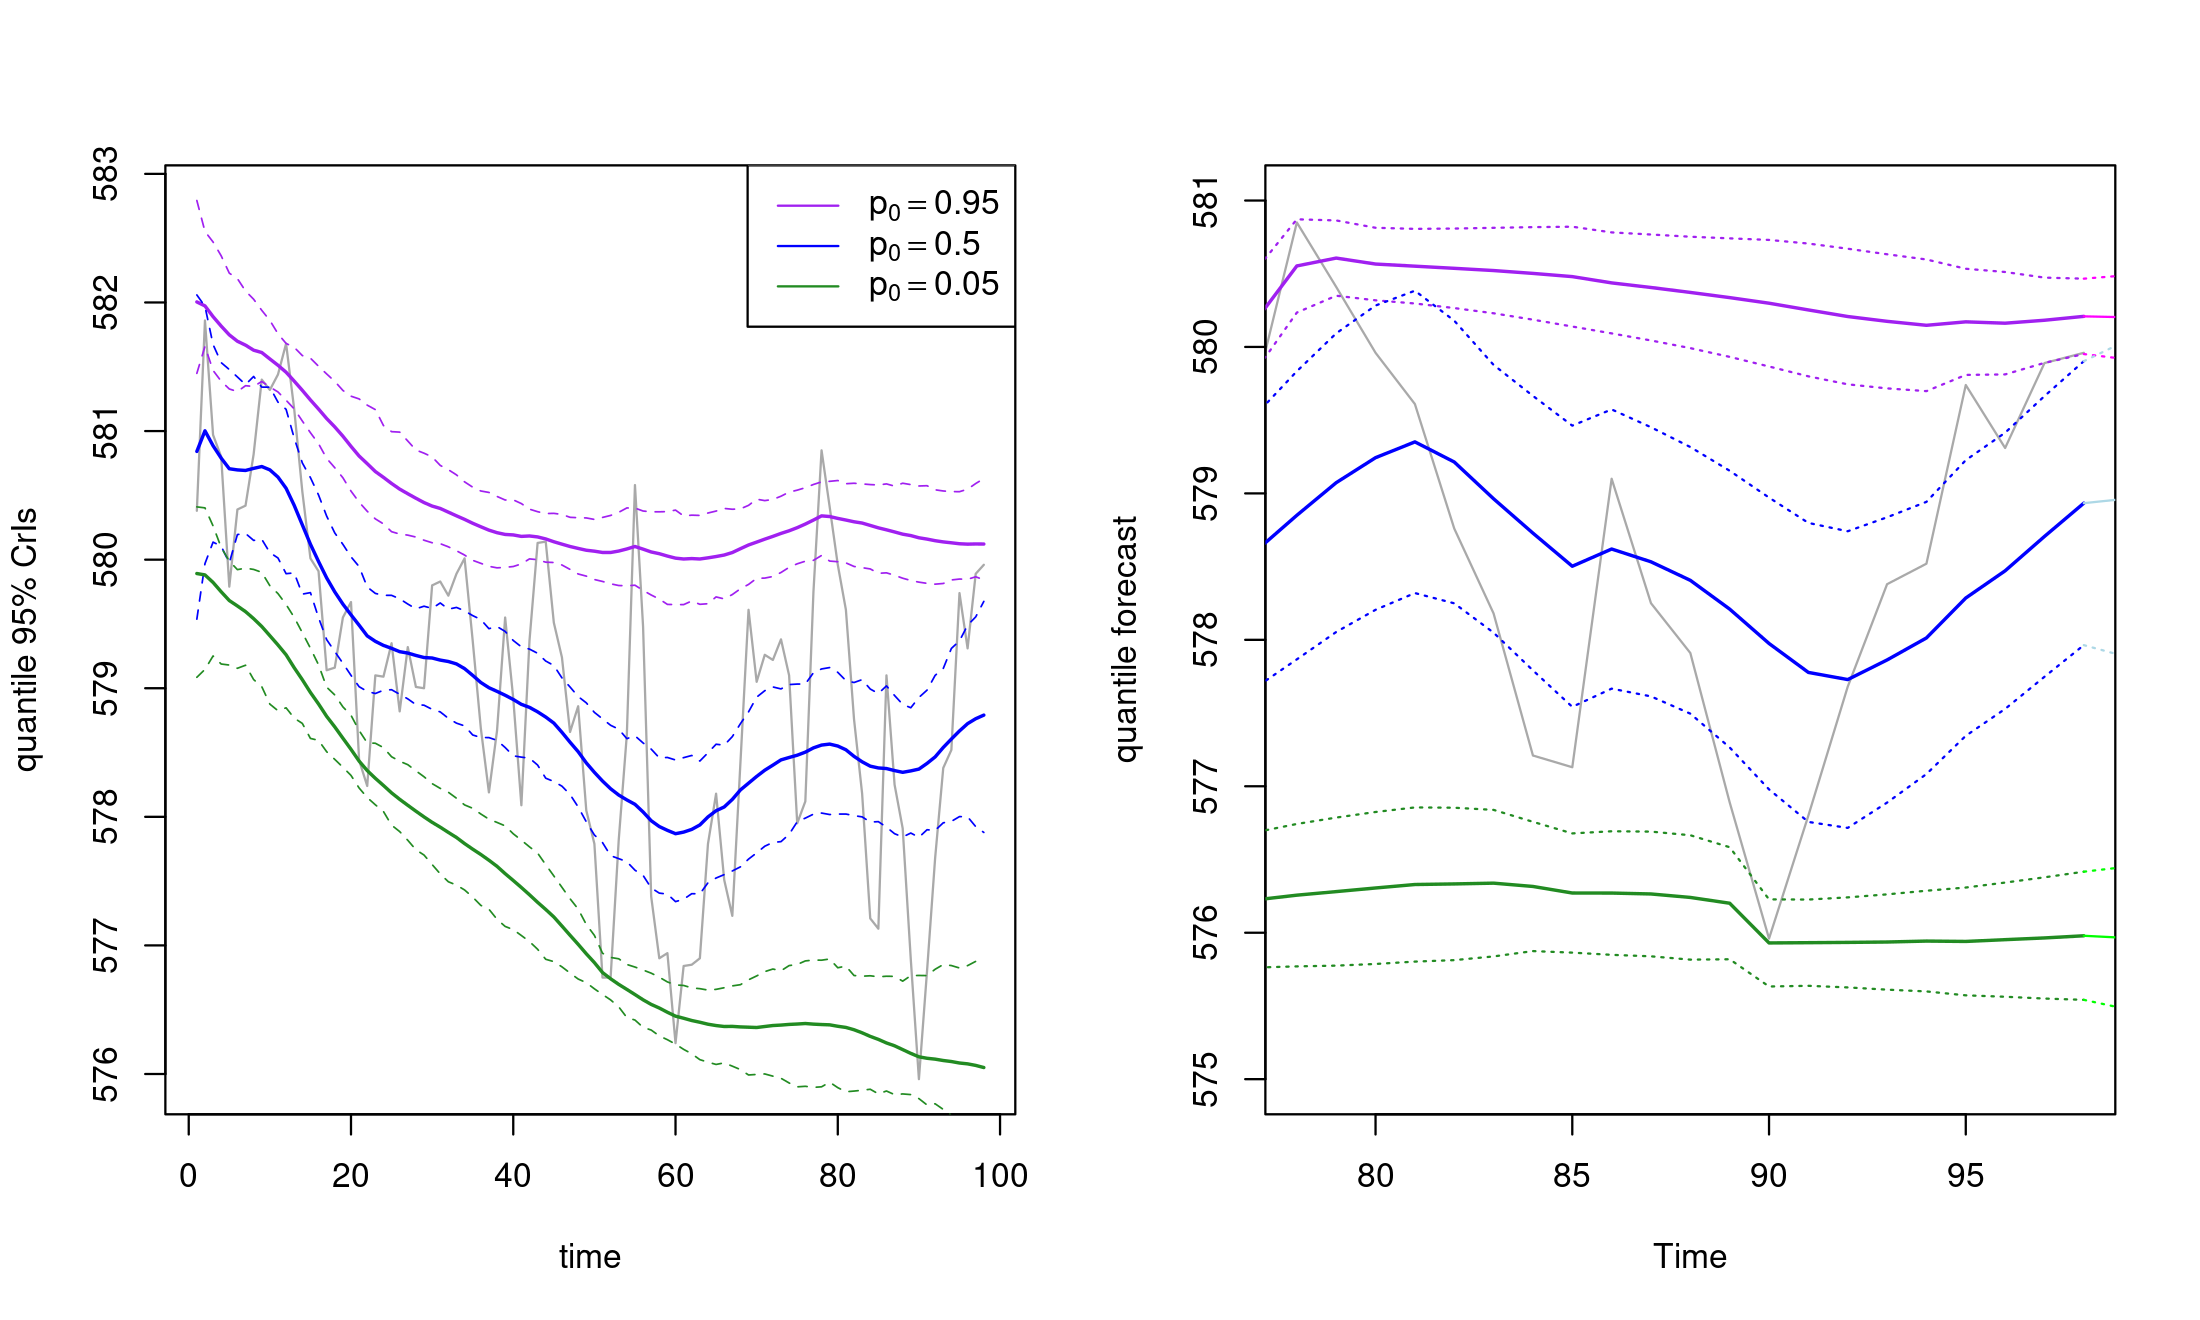
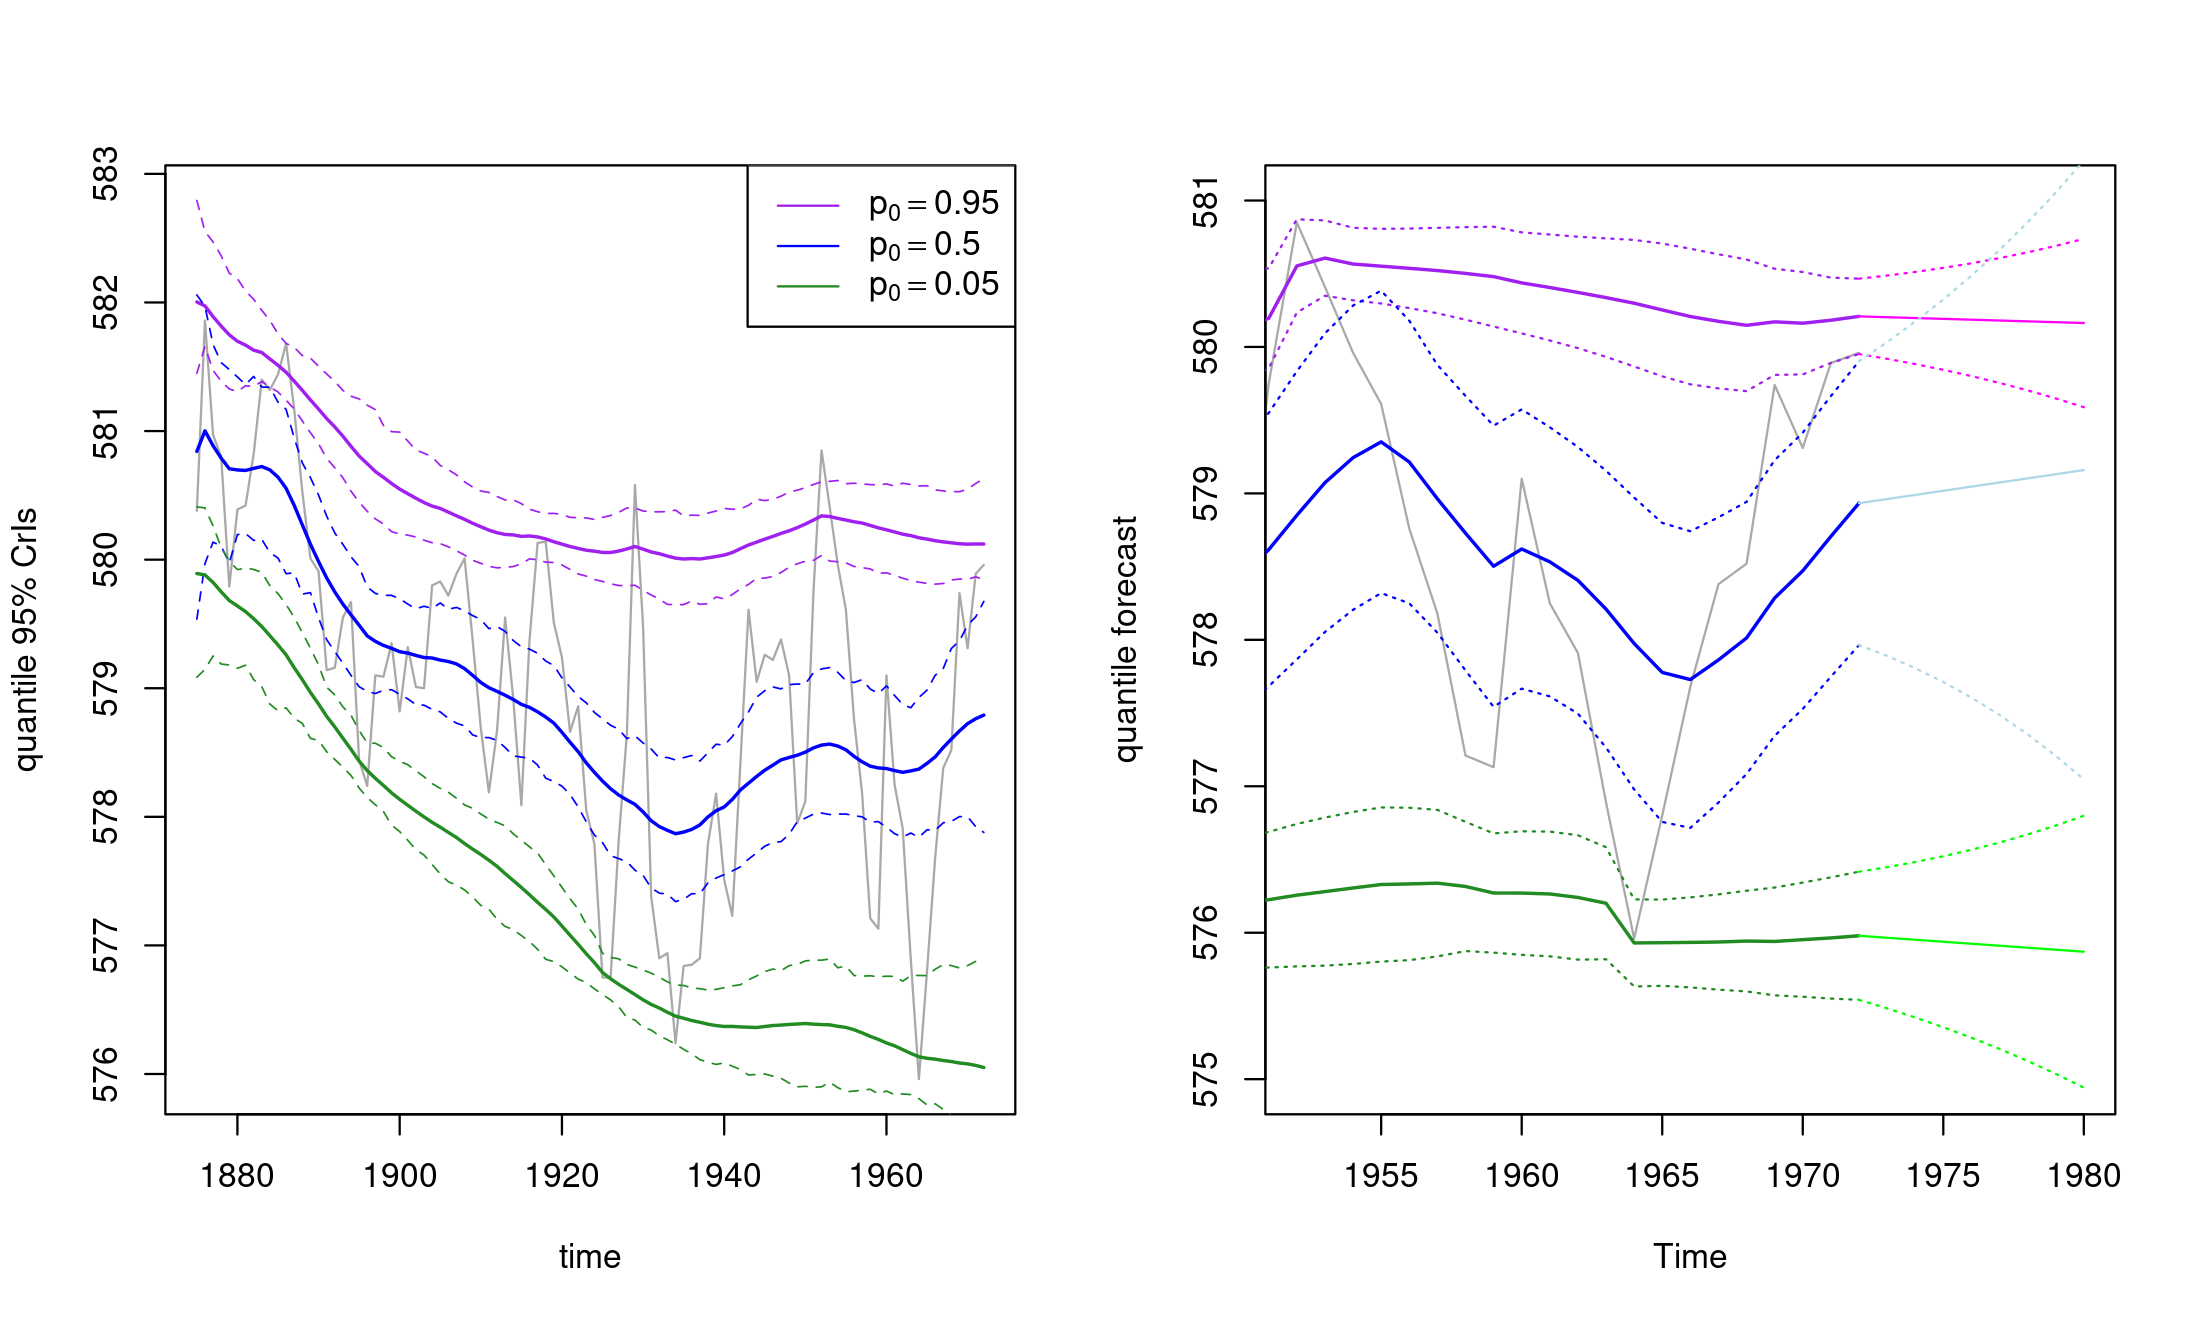
analysis: update ex1/ex2 quantile figures and horizons

diff --git a/analysis/manuscript/outputs/tables/manuscript_repro_tracker.md b/analysis/manuscript/outputs/tables/manuscript_repro_tracker.md
@@ -1,15 +1,14 @@
 # Manuscript Reproducibility Tracker
 
-Generated: 2026-03-03 12:02:27
+Generated: 2026-03-03 12:40:22
 Profile: standard
 Seed: 20260302
 
 ## Artifact Status
 
-- [reproduced] `ex1_model_output` -> `analysis/manuscript/outputs/logs/ex1_model_output.txt` (Example 1 model block). polytrend model object output.
-- [reproduced] `ex1_run_summary` -> `analysis/manuscript/outputs/logs/ex1_run_summary.txt` (Example 1 textual outputs). Includes backend metadata and high-iteration trace diagnostics.
-- [reproduced] `fig_ex1mcmc` -> `analysis/manuscript/outputs/figures/ex1mcmc.png` (fig:ex1mcmc). Trace and density plot using dedicated higher-iteration median MCMC run with thinning=5.
-- [approximate] `tab_ex1_runtime` -> `analysis/manuscript/outputs/tables/ex1_runtime_summary.csv` (Example 1 runtime statements). Runtimes vary by hardware/profile; trace run intentionally uses higher iterations.
+- [reproduced] `ex2_model_output` -> `analysis/manuscript/outputs/logs/ex2_model_output.txt` (Example 2 model matrix output). Combined trend/seasonal state-space matrix.
+- [reproduced] `ex2_run_summary` -> `analysis/manuscript/outputs/logs/ex2_run_summary.txt` (Example 2 textual outputs). Includes sigma summary and ISVB/LDVB runtime diagnostics.
+- [reproduced] `fig_ex2quant` -> `analysis/manuscript/outputs/figures/ex2quant.png` (fig:ex2quant). Two-panel ISVB extreme-quantile figure (p0=0.05 and p0=0.95) with fit and forecast views.
 - [reproduced] `tab_api_migration_map` -> `analysis/manuscript/outputs/tables/manuscript_api_migration_map.csv` (global code migration). Maps deprecated manuscript calls to current package API.
 
 ## Notes
@@ -18,7 +17,7 @@ Seed: 20260302
 - api_update: Deprecated y= usage removed from exdqlmPlot/compPlot/exdqlmForecast calls.
 - ldvb_note: Added ISVB vs LDVB comparison figure for dynamic Sunspots example.
 - backend: MCMC runs use C++ backend options exdqlm.use_cpp_mcmc=TRUE and exdqlm.cpp_mcmc_mode='fast'.
-- ex1: Lake Huron uses cached fits; ex1mcmc uses a dedicated high-iteration median MCMC chain.
-- coverage: Targeted run; requested targets: ex1mcmc.
+- ex2: Used explicit dlm->exdqlm conversion because as.exdqlm(dlm) errors in current package.
+- coverage: Targeted run; requested targets: ex2quant.
 - timing: Exact runtime printouts in manuscript are historical and expected to differ.
 - scope: Main manuscript .tex was not modified; all updates are isolated under analysis/manuscript.
